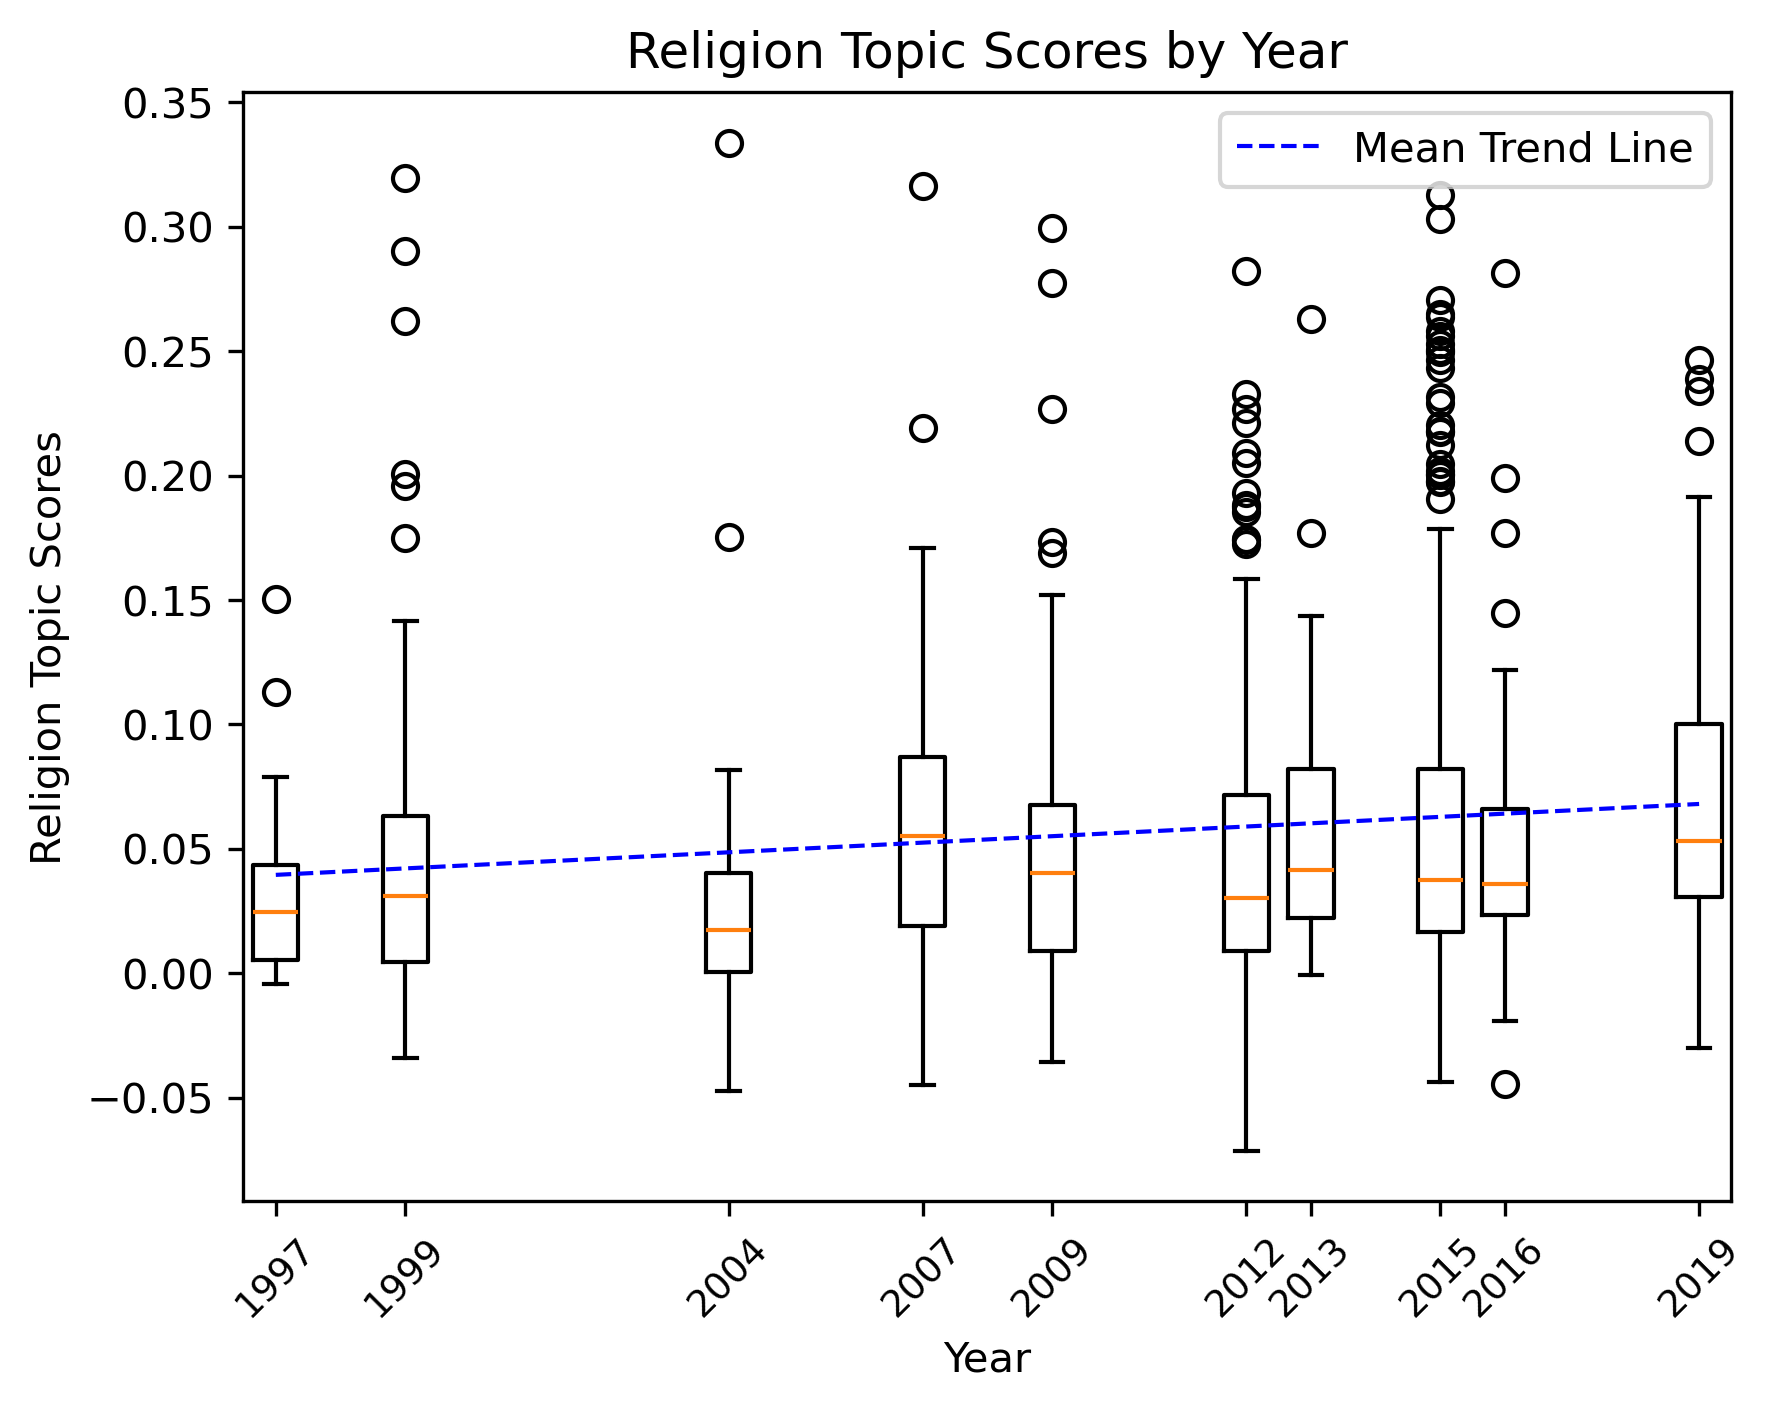
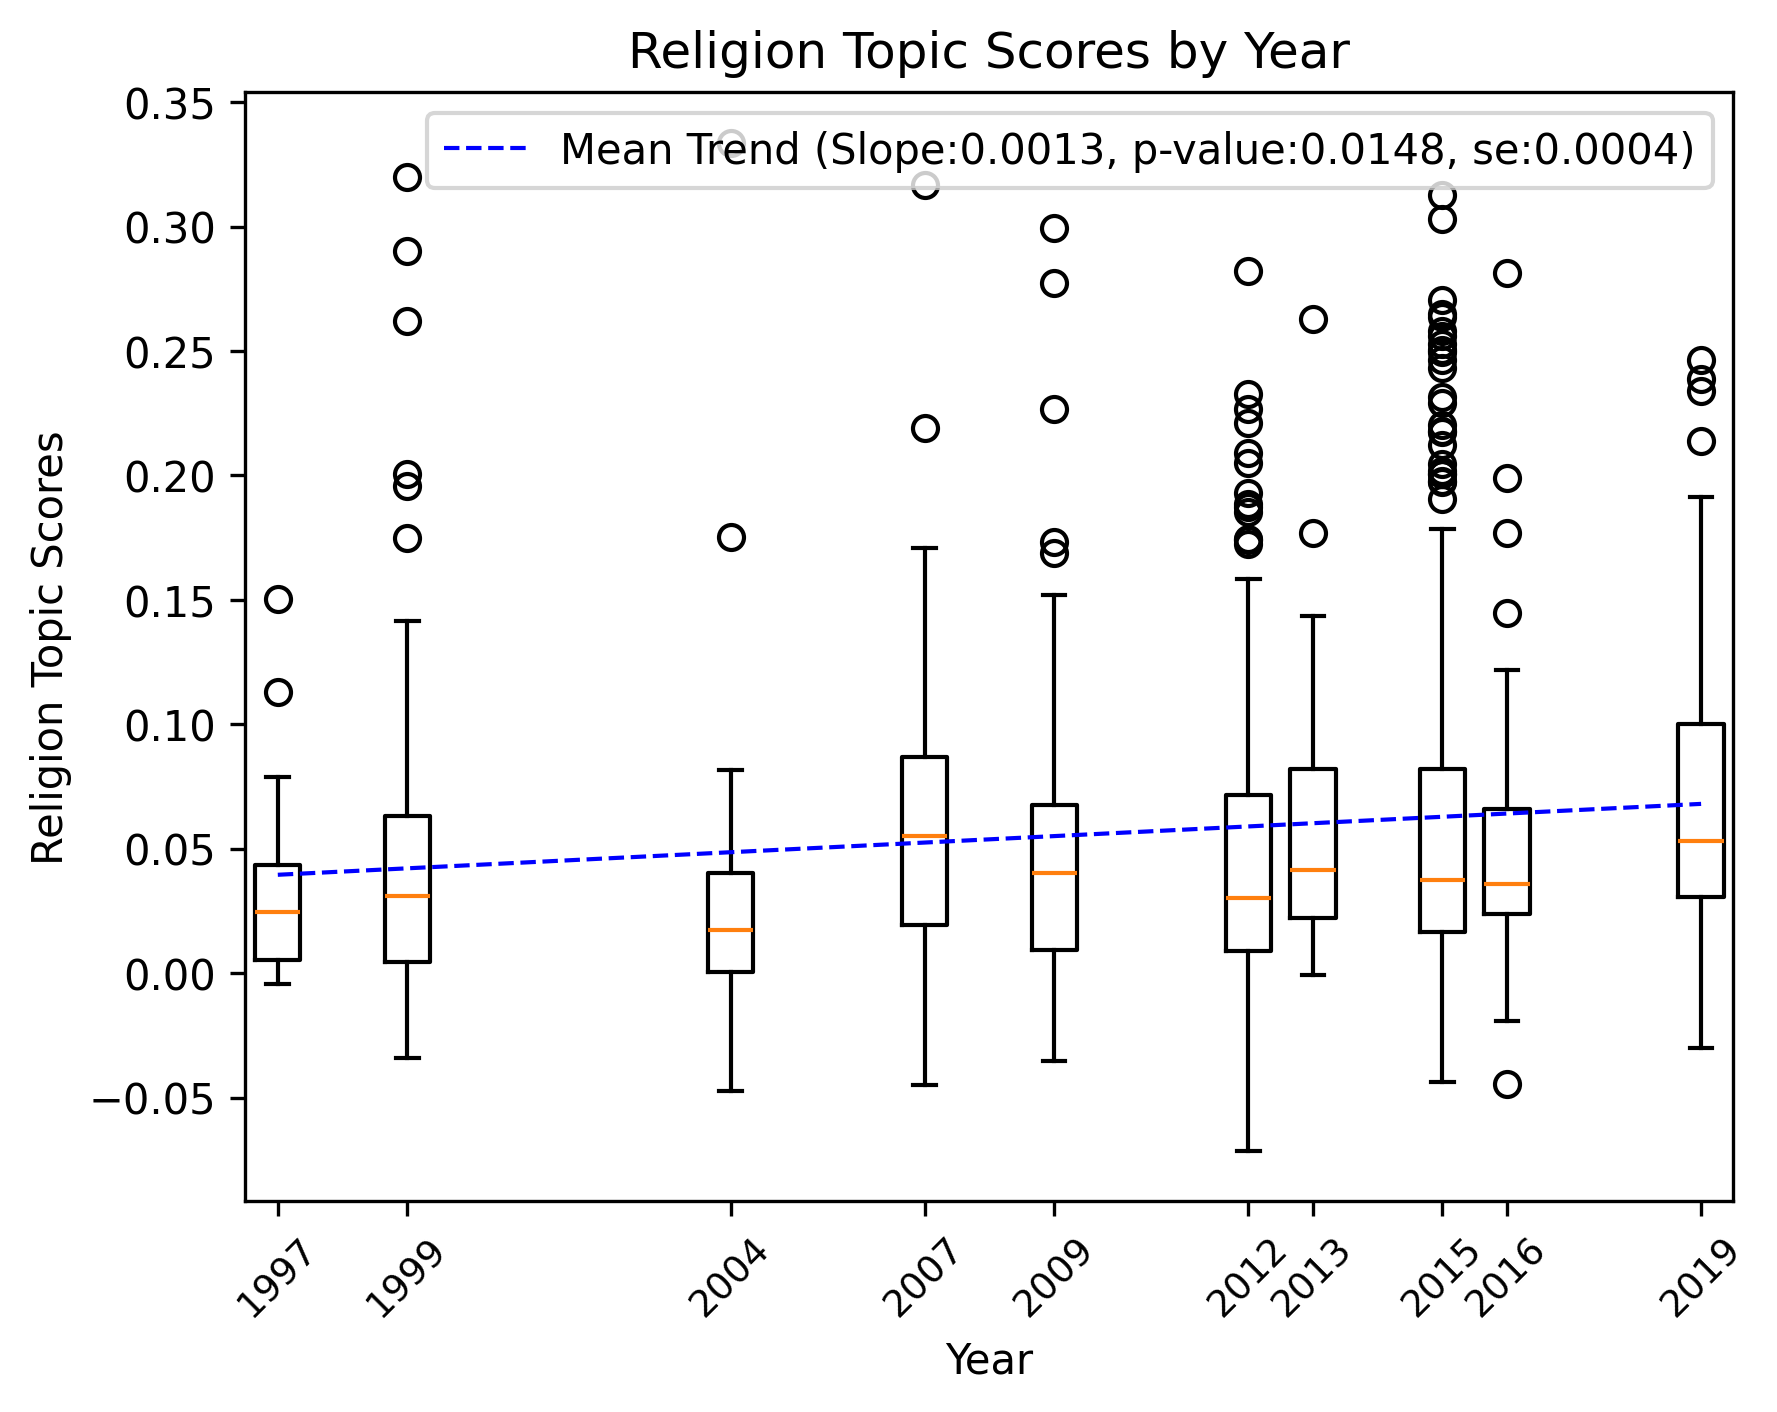
calculated slope, se, and pvalue

diff --git a/python/model.py b/python/model.py
@@ -23,7 +23,7 @@ import matplotlib.axes as axes
 
 # Custom module for handling embeddings
 from python import embeddings
-
+from scipy import stats
 import seaborn as sns  # For advanced data visualization, used for creating violin plots and enhancing the aesthetics of plots
 
 
@@ -210,11 +210,7 @@ def save_topic_score_by_year_plot(topic: str, yearly_scores: dict) -> None:
 
     # Setting up the plot
     years = np.array(list(yearly_scores.keys()))
-
-    scores = [
-        np.mean([1 if score >= 0.05 else 0 for score in yearly_scores[year]])
-        for year in years
-    ]
+    scores = np.array(list(yearly_scores.values()))
 
     _, ax = plt.subplots()
 
@@ -281,13 +277,14 @@ def conf_boxplot(
             pass  # TODO: more trend methods?
         if trend_method in ["median", "mean"]:
             m, b = np.polyfit(years, trend_values, 1)
+            s, i, r, p, e = stats.linregress(years, trend_values)
             ax.plot(
                 years,
                 m * years + b,
                 color="blue",
                 linestyle="--",
                 linewidth=1,
-                label=f"{trend_method.capitalize()} Trend Line",
+                label=f"{trend_method.capitalize()} Trend (Slope:{s:.4f}, p-value:{p:.4f}, se:{e:.4f})",
             )
 
     # Finalizing the plot

diff --git a/main.py b/main.py
@@ -1,4 +1,5 @@
 # This script serves as the main entry point for the project. It orchestrates the loading of models and data, the computation of topic scores, and the generation of visualizations for conference speeches on various topics.
+import matplotlib.pyplot as plt
 
 # Import necessary libraries and modules
 from sklearn.preprocessing import (
@@ -11,9 +12,10 @@ from python import (
 from python import (
     pca,
 )  # Custom module for performing Principal Component Analysis and generating PCA plots
-
+from sklearn.linear_model import LinearRegression
 import pickle  # for saving and loading computed scores
 import os  # for checking if cache files exist
+import numpy as np
 
 # Sentence embedding and natural language processing models
 EMBEDDINGS_MODEL = "sentence-transformers/all-mpnet-base-v2"  # https://huggingface.co/sentence-transformers/all-mpnet-base-v2, a pre-trained model for generating sentence embeddings
@@ -70,7 +72,6 @@ TOPICS = {
         "Negative": SCIENCE_NEG_DIR,
         "Speaker": SCIENCE_SPKR,
         "Year": SCIENCE_YEAR,
-        
     },
     "Neutral": {
         "Speaker": NEUTRAL_SPKR,
@@ -164,7 +165,9 @@ def main():
 
         # NEW: boxplot
         print(f"creating {topic} topic scores by year boxplot...")
-        tm.conf_boxplot(topic, yearly_topic_scores, show_trend=True, trend_method="mean")
+        tm.conf_boxplot(
+            topic, yearly_topic_scores, show_trend=True, trend_method="mean"
+        )
         # tm.conf_boxplot(f"{topic} Positive Proportion", yearly_topic_proportions, show_trend=True, trend_method="mean",)
 
         print(f"saved {topic} topic scores by year plot!")
@@ -191,7 +194,6 @@ def main():
         print("tyler the goat")
         # tm.the_goat_tyler(topic, yearly_topic_scores)
         # tm.save_topic_score_by_year_plot(topic, yearly_topic_scores)
-
     print("script finished.")
 
 